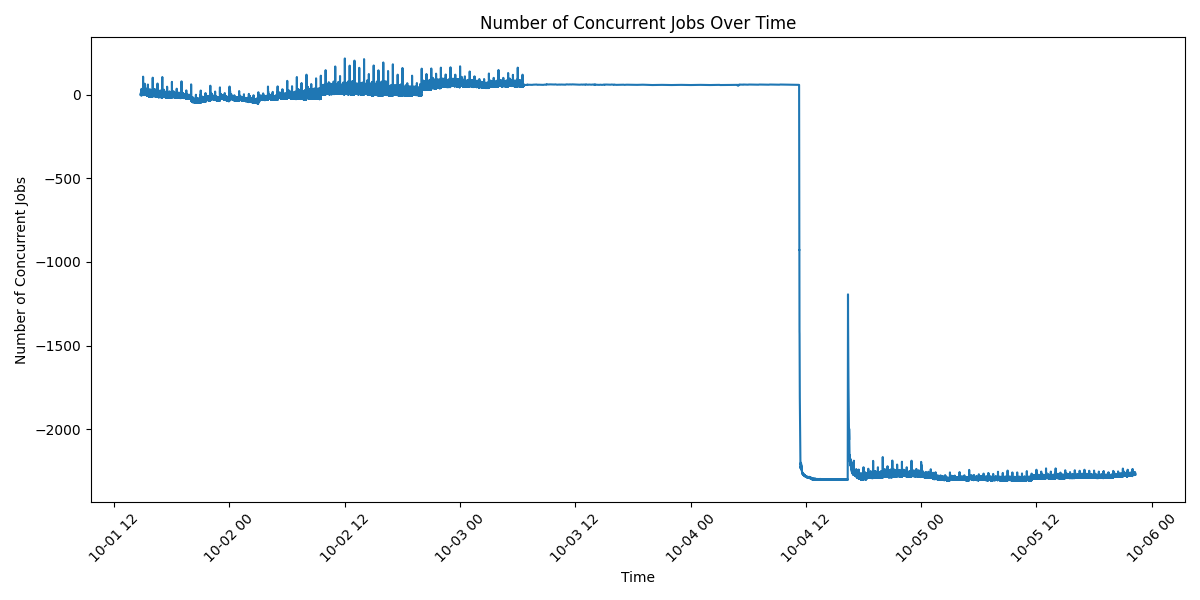
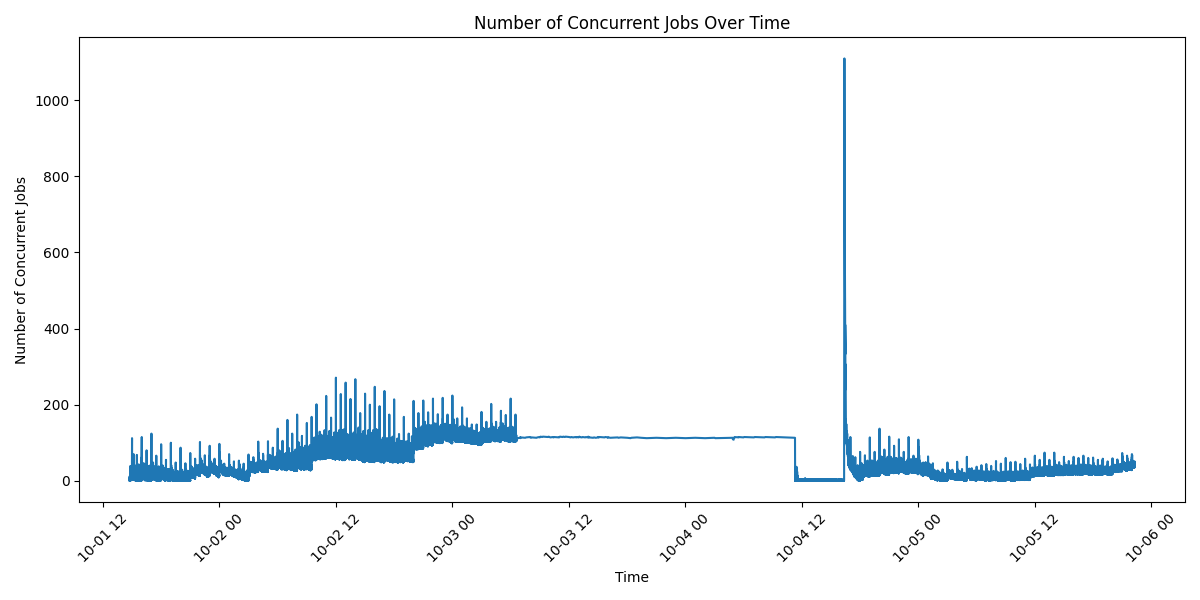
better organise files

diff --git a/src/jobs_analyzer.py b/src/jobs_analyzer.py
@@ -30,6 +30,7 @@ def get_concurrent_jobs(df):
     current_count = 0
     for time, change in events:
         current_count += change
+        current_count = max(0, current_count)
         concurrent_jobs.append((time, current_count))
 
     return pd.DataFrame(concurrent_jobs, columns=['timestamp', 'concurrent_jobs'])
@@ -81,15 +82,15 @@ def analyze_jobs(df):
         'Metric': ['Total Jobs', 'Completed Jobs', 'Success Rate', 'Average Job Duration', 'Maximum Job Duration'],
         'Value': [total_jobs, completed_jobs, success_rate, avg_duration, max_duration]
     }
-    pd.DataFrame(summary_data).to_csv(os.path.join(PROJECT_ROOT, 'csv', 'job_summary.csv'), index=False)
+    pd.DataFrame(summary_data).to_csv(os.path.join(PROJECT_ROOT, 'results', 'job_summary.csv'), index=False)
 
-    top_jobs.to_csv(os.path.join(PROJECT_ROOT, 'csv', 'top_common_jobs.csv'))
+    top_jobs.to_csv(os.path.join(PROJECT_ROOT, 'results', 'top_common_jobs.csv'))
 
     if 'return_code' in df.columns:
-        job_failure_rates.to_csv(os.path.join(PROJECT_ROOT, 'csv', 'job_failure_rates.csv'))
+        job_failure_rates.to_csv(os.path.join(PROJECT_ROOT, 'results', 'job_failure_rates.csv'))
 
     longest_jobs[['name', 'id', 'duration', 'start_time', 'end_time', 'return_code']].to_csv(
-        os.path.join(PROJECT_ROOT, 'csv', 'longest_running_jobs.csv'), index=False)
+        os.path.join(PROJECT_ROOT, 'results', 'longest_running_jobs.csv'), index=False)
 
     return df
 
@@ -105,7 +106,7 @@ def plot_concurrent_jobs(concurrent_jobs):
     plt.close()
 
     # Save concurrent jobs data to CSV
-    concurrent_jobs.to_csv(os.path.join(PROJECT_ROOT, 'csv', 'concurrent_jobs.csv'), index=False)
+    concurrent_jobs.to_csv(os.path.join(PROJECT_ROOT, 'results', 'concurrent_jobs.csv'), index=False)
 
 def plot_job_duration_histogram(df):
     plt.figure(figsize=(10, 6))
@@ -117,7 +118,7 @@ def plot_job_duration_histogram(df):
     plt.close()
 
     # Save job duration data to CSV
-    df[['name', 'id', 'duration']].to_csv(os.path.join(PROJECT_ROOT, 'csv', 'job_durations.csv'), index=False)
+    df[['name', 'id', 'duration']].to_csv(os.path.join(PROJECT_ROOT, 'results', 'job_durations.csv'), index=False)
 
 def main():
     # Load the jobs data

diff --git a/src/multiple_day_log_processor.py b/src/multiple_day_log_processor.py
@@ -220,7 +220,7 @@ def process_logs_to_csv(logs_folder):
         "\nCombined data has been saved to csv/combined_jobs.csv, csv/combined_reports.csv, and csv/combined_events.csv")
 
     # Save processing times to CSV
-    processing_times_path = os.path.join(PROJECT_ROOT, 'csv', 'processing_times.csv')
+    processing_times_path = os.path.join(PROJECT_ROOT, 'benchmarks', 'processing_times.csv')
     os.makedirs(os.path.dirname(processing_times_path), exist_ok=True)
     with open(processing_times_path, 'w', newline='', encoding='utf-8') as csvfile:
         writer = csv.writer(csvfile)
